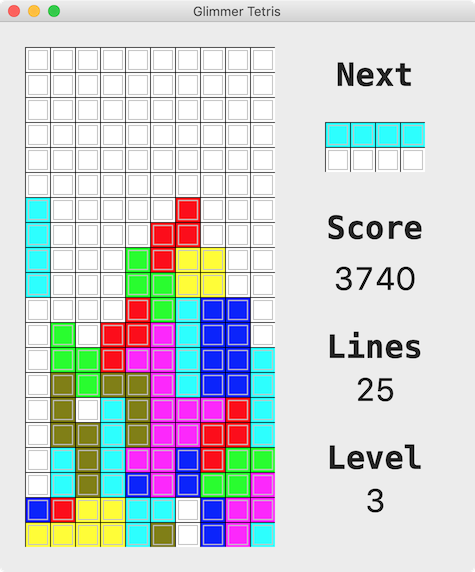
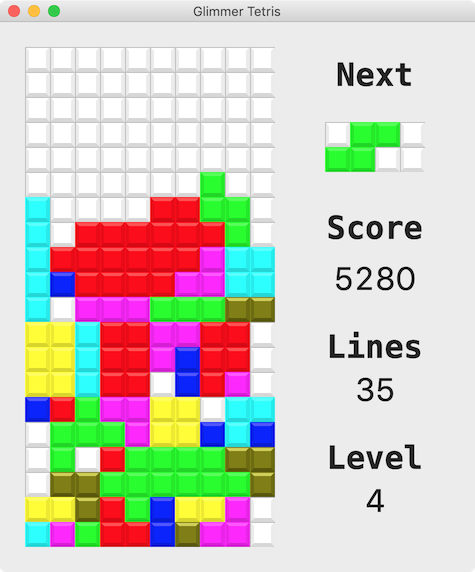
More v4.18.2.5 changes: - Use flyweight pattern with colors - Use flyweight pattern with widget classes - Use flyweight pattern with custom widget classes - Optimized performance of Canvas Shape DSL - Optimized performance of Tetris game - Fixed issue with top-level sync_exec/async_exec use randomly

diff --git a/lib/glimmer/swt/custom/shape.rb b/lib/glimmer/swt/custom/shape.rb
@@ -43,7 +43,17 @@ module Glimmer
           end
           
           def gc_instance_methods
-            org.eclipse.swt.graphics.GC.instance_methods.map(&:to_s)
+            @gc_instance_methods ||= org.eclipse.swt.graphics.GC.instance_methods.map(&:to_s)
+          end
+          
+          def keywords
+            @keywords ||= gc_instance_methods.select do |method_name|
+              !method_name.end_with?('=') && (method_name.start_with?('draw_') || method_name.start_with?('fill_'))
+            end.reject do |method_name|
+              gc_instance_methods.include?("#{method_name}=") || gc_instance_methods.include?("set_#{method_name}")
+            end.map do |method_name|
+              method_name.gsub(/(draw|fill|gradient|round)_/, '')
+            end.uniq.compact.to_a
           end
           
           def arg_options(args, extract: false)
@@ -53,11 +63,19 @@ module Glimmer
           end
           
           def method_name(keyword, args)
-            keyword = keyword.to_s
-            gradient = 'gradient_' if arg_options(args)[:gradient]
-            round = 'round_' if arg_options(args)[:round]
-            gc_instance_method_name_prefix = !['polyline', 'point', 'image', 'focus'].include?(keyword) && (arg_options(args)[:fill] || arg_options(args)[:gradient]) ? 'fill_' : 'draw_'
-            "#{gc_instance_method_name_prefix}#{gradient}#{round}#{keyword}"
+            method_arg_options = arg_options(args)
+            unless flyweight_method_names.keys.include?([keyword, method_arg_options])
+              keyword = keyword.to_s
+              gradient = 'gradient_' if method_arg_options[:gradient]
+              round = 'round_' if method_arg_options[:round]
+              gc_instance_method_name_prefix = !['polyline', 'point', 'image', 'focus'].include?(keyword) && (method_arg_options[:fill] || method_arg_options[:gradient]) ? 'fill_' : 'draw_'
+              flyweight_method_names[[keyword, method_arg_options]] = "#{gc_instance_method_name_prefix}#{gradient}#{round}#{keyword}"
+            end
+            flyweight_method_names[[keyword, method_arg_options]]
+          end
+          
+          def flyweight_method_names
+            @flyweight_method_names ||= {}
           end
         end
         

diff --git a/lib/glimmer/ui/custom_widget.rb b/lib/glimmer/ui/custom_widget.rb
@@ -34,13 +34,14 @@ module Glimmer
       include DataBinding::ObservableModel
 
       super_module_included do |klass|
+        # TODO clear memoization of WidgetProxy.swt_widget_class_for for a keyword if a custom widget was defined with that keyword
         klass.include(Glimmer) unless klass.name.include?('Glimmer::UI::CustomShell')
         Glimmer::UI::CustomWidget.add_custom_widget_namespaces_for(klass) unless klass.name.include?('Glimmer::UI::CustomShell')
       end
 
       class << self
         def for(underscored_custom_widget_name)
-          if flyweight_custom_widget_classes[underscored_custom_widget_name].nil?
+          unless flyweight_custom_widget_classes.keys.include?(underscored_custom_widget_name)
             begin
               extracted_namespaces = underscored_custom_widget_name.
                 to_s.

diff --git a/samples/elaborate/tetris.rb b/samples/elaborate/tetris.rb
@@ -21,7 +21,6 @@
 
 # Tetris App View Custom Shell (represents `tetris` keyword)
 
-require 'jruby/profiler'
 require_relative 'tetris/model/game'
 
 require_relative 'tetris/view/playfield'
@@ -62,9 +61,7 @@ class Tetris
     }
     
     Model::Game.configure_beeper do
-      async_exec {
-        display.beep
-      }
+      display.beep
     end
   }
   
@@ -102,18 +99,8 @@ class Tetris
       score_lane(block_size: BLOCK_SIZE) {
         layout_data(:fill, :fill, false, true)
       }
-      
-      on_swt_show {
-#         puts 'closing'
-#         exit(0)
-      }
     }
   }
 end
 
-# profile_data = JRuby::Profiler.profile do
-  Tetris.launch
-# end
-
-# profile_printer = JRuby::Profiler::HtmlProfilePrinter.new(profile_data)
-# ps = java.io.PrintStream.new(STDOUT.to_outputstream)
+Tetris.launch

diff --git a/lib/glimmer/dsl/swt/shape_expression.rb b/lib/glimmer/dsl/swt/shape_expression.rb
@@ -23,6 +23,7 @@ require 'glimmer/dsl/expression'
 require 'glimmer/dsl/parent_expression'
 require 'glimmer/swt/swt_proxy'
 require 'glimmer/swt/custom/shape'
+require 'glimmer/swt/custom/drawable'
 
 module Glimmer
   module DSL
@@ -31,10 +32,7 @@ module Glimmer
         include ParentExpression
         
         def can_interpret?(parent, keyword, *args, &block)
-          (
-            (parent.respond_to?(:swt_widget) and parent.swt_widget.is_a?(org.eclipse.swt.graphics.Drawable)) or
-            (parent.respond_to?(:swt_display) and parent.swt_display.is_a?(org.eclipse.swt.graphics.Drawable))
-          ) and
+          parent.is_a?(Glimmer::SWT::Custom::Drawable) and
             Glimmer::SWT::Custom::Shape.valid?(parent, keyword, *args, &block)
         end
         

diff --git a/lib/glimmer/swt/widget_proxy.rb b/lib/glimmer/swt/widget_proxy.rb
@@ -498,7 +498,7 @@ module Glimmer
       # This supports widgets in and out of basic SWT
       def self.swt_widget_class_for(underscored_widget_name)
         # TODO clear memoization for a keyword if a custom widget was defined with that keyword
-        if flyweight_swt_widget_classes[underscored_widget_name].nil?
+        unless flyweight_swt_widget_classes.keys.include?(underscored_widget_name)
           begin
             underscored_widget_name = KEYWORD_ALIASES[underscored_widget_name] if KEYWORD_ALIASES[underscored_widget_name]
             swt_widget_name = underscored_widget_name.camelcase(:upper)

diff --git a/lib/glimmer/dsl/swt/widget_expression.rb b/lib/glimmer/dsl/swt/widget_expression.rb
@@ -22,6 +22,7 @@
 require 'glimmer'
 require 'glimmer/dsl/expression'
 require 'glimmer/dsl/parent_expression'
+require 'glimmer/swt/custom/shape'
 
 module Glimmer
   module DSL
@@ -29,7 +30,7 @@ module Glimmer
       class WidgetExpression < Expression
         include ParentExpression
 
-        EXCLUDED_KEYWORDS = %w[shell display tab_item]
+        EXCLUDED_KEYWORDS = %w[shell display tab_item] + Glimmer::SWT::Custom::Shape.keywords - ['text']
 
         def can_interpret?(parent, keyword, *args, &block)
           result = !EXCLUDED_KEYWORDS.include?(keyword) &&

diff --git a/samples/elaborate/tetris/model/game.rb b/samples/elaborate/tetris/model/game.rb
@@ -127,7 +127,7 @@ class Tetris
              playfield[playfield_row].each_with_index do |block, playfield_column|
                previous_row = playfield[playfield_row - 1]
                previous_block = previous_row[playfield_column]
-               block.color = previous_block.color
+               block.color = previous_block.color unless block.color == previous_block.color
              end
           end
           playfield[0].each(&:clear)

diff --git a/README.md b/README.md
@@ -1,4 +1,4 @@
-# [<img src="https://raw.githubusercontent.com/AndyObtiva/glimmer/master/images/glimmer-logo-hi-res.png" height=85 />](https://github.com/AndyObtiva/glimmer) Glimmer DSL for SWT 4.18.2.4
+# [<img src="https://raw.githubusercontent.com/AndyObtiva/glimmer/master/images/glimmer-logo-hi-res.png" height=85 />](https://github.com/AndyObtiva/glimmer) Glimmer DSL for SWT 4.18.2.5
 ## JRuby Desktop Development GUI Framework
 [![Gem Version](https://badge.fury.io/rb/glimmer-dsl-swt.svg)](http://badge.fury.io/rb/glimmer-dsl-swt)
 [![Travis CI](https://travis-ci.com/AndyObtiva/glimmer-dsl-swt.svg?branch=master)](https://travis-ci.com/github/AndyObtiva/glimmer-dsl-swt)
@@ -458,7 +458,7 @@ jgem install glimmer-dsl-swt
 
 Or this command if you want a specific version:
 ```
-jgem install glimmer-dsl-swt -v 4.18.2.4
+jgem install glimmer-dsl-swt -v 4.18.2.5
 
 
 ```
@@ -478,7 +478,7 @@ Note: if you're using activerecord or activesupport, keep in mind that Glimmer u
 
 Add the following to `Gemfile`:
 ```
-gem 'glimmer-dsl-swt', '~> 4.18.2.4
+gem 'glimmer-dsl-swt', '~> 4.18.2.5
 '
 ```
 
@@ -537,7 +537,7 @@ bin/glimmer samples
 Below are the full usage instructions that come up when running `glimmer` without args.
 
 ```
-Glimmer (JRuby Desktop Development GUI Framework) - JRuby Gem: glimmer-dsl-swt v4.18.2.4
+Glimmer (JRuby Desktop Development GUI Framework) - JRuby Gem: glimmer-dsl-swt v4.18.2.5
 
 
       
@@ -1018,7 +1018,7 @@ Output:
                                                                          
   Css    glimmer-dsl-css    1.1.0     AndyMaleh    Glimmer DSL for CSS
   Opal   glimmer-dsl-opal   0.10.2     AndyMaleh    Glimmer DSL for Opal
-  Swt    glimmer-dsl-swt    4.18.2.4
+  Swt    glimmer-dsl-swt    4.18.2.5
 
   AndyMaleh    Glimmer DSL for SWT
   Tk     glimmer-dsl-tk     0.0.6     AndyMaleh    Glimmer DSL for Tk

diff --git a/TODO.md b/TODO.md
@@ -5,7 +5,17 @@ Here is a list of tasks to do (moved to [CHANGELOG.md](CHANGELOG.md) once done).
 ## Next
 
 - Document profiling tips with Glimmer (like profiling till on_swt_show is triggered on shell)
+```ruby
+require 'jruby/profiler'
+profile_data = JRuby::Profiler.profile do
+  Tetris.launch
+end
+
+profile_printer = JRuby::Profiler::HtmlProfilePrinter.new(profile_data)
+ps = java.io.PrintStream.new(STDOUT.to_outputstream)
+```
 - Enhance Hello, Canvas! with Color base selector or create a new sample: Hello, Canvas Data-Binding!
+- Tetris High Scores
 - Canvas Shape DSL Shape Arguments Data-Binding support
 - Set Canvas Shape default font from parent
 - Tetris Immediate Drop on Arrow Up

diff --git a/CHANGELOG.md b/CHANGELOG.md
@@ -1,13 +1,16 @@
 # Change Log
 
-### 4.18.3.0
+### 4.18.2.5
 
 - ColorProxy args now are automatically fit into 0..255 bounds upon use of the `color`/`rgb`/`rgba` keywords
-- Canvas Shape DSL Property Data-Binding support
+- Canvas Shape DSL (Property) Data-Binding support (No Argument Data-Binding support yet)
 - Add a more bevel 3D look to Tetris blocks
 - Use flyweight pattern with colors
 - Use flyweight pattern with widget classes
 - Use flyweight pattern with custom widget classes
+- Optimized performance of Canvas Shape DSL
+- Optimized performance of Tetris game
+- Fixed issue with top-level sync_exec/async_exec use randomly bombing
 
 ### 4.18.2.4
 
